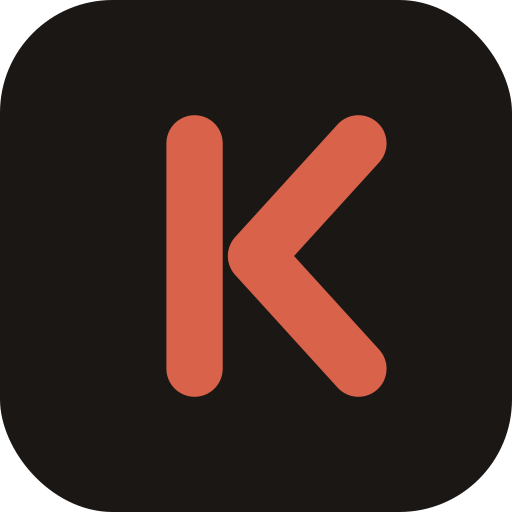
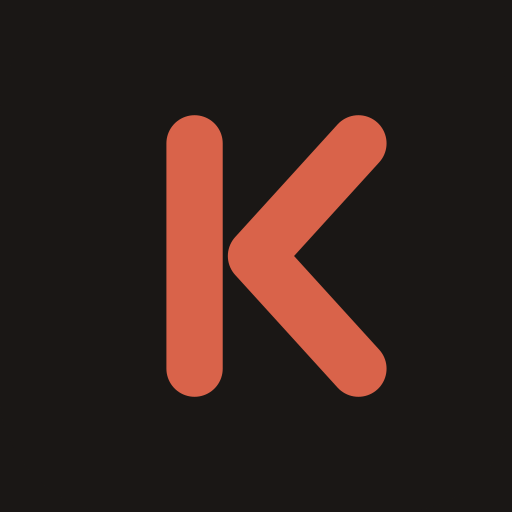
refactor: square corners across the site
Zero every radius token so stock shadcn classes render square, and
remove rounded classes and border-radius from components, prose styles
and the OG card. Make the app icons full-bleed squares. Document the
rule, the stacked heading layout and the theme reload gotcha in
AGENTS.md.

diff --git a/app/work/[slug]/page.tsx b/app/work/[slug]/page.tsx
@@ -105,8 +105,8 @@ export default async function ProjectPage({
                   rel="noopener noreferrer"
                   className={
                     k === 0
-                      ? "inline-flex items-center rounded-lg bg-foreground px-4 py-2.5 font-mono text-xs text-background transition-opacity hover:opacity-85"
-                      : "inline-flex items-center rounded-lg border border-border bg-secondary px-4 py-2.5 font-mono text-xs text-muted-foreground transition-colors hover:border-brand/40 hover:text-foreground"
+                      ? "inline-flex items-center bg-foreground px-4 py-2.5 font-mono text-xs text-background transition-opacity hover:opacity-85"
+                      : "inline-flex items-center border border-border bg-secondary px-4 py-2.5 font-mono text-xs text-muted-foreground transition-colors hover:border-brand/40 hover:text-foreground"
                   }
                 >
                   {l.label.toLowerCase()}
@@ -117,7 +117,7 @@ export default async function ProjectPage({
 
           <div className="lg:col-span-5">
             <div
-              className="relative flex aspect-square items-center justify-center rounded-2xl"
+              className="relative flex aspect-square items-center justify-center"
               style={{ backgroundColor: `var(--stock-${p.stock})` }}
             >
               <span
@@ -146,7 +146,7 @@ export default async function ProjectPage({
           </div>
         </div>
 
-        <dl className="relative mt-14 flex flex-wrap gap-px overflow-hidden rounded-xl border border-border bg-border">
+        <dl className="relative mt-14 flex flex-wrap gap-px overflow-hidden border border-border bg-border">
           {facts.map(([k, v]) => (
             <div
               key={k}
@@ -167,7 +167,7 @@ export default async function ProjectPage({
         </Block>
 
         <Block index={2} label="how it works">
-          <ol className="grid gap-px overflow-hidden rounded-xl border border-border bg-border md:grid-cols-2">
+          <ol className="grid gap-px overflow-hidden border border-border bg-border md:grid-cols-2">
             {p.approach.map((a, k) => (
               <li
                 key={a.title}
@@ -208,7 +208,7 @@ export default async function ProjectPage({
                 {p.stack.map((s) => (
                   <li
                     key={s}
-                    className="rounded-md border border-border px-2.5 py-1 font-mono text-xs text-muted-foreground"
+                    className="border border-border px-2.5 py-1 font-mono text-xs text-muted-foreground"
                   >
                     {s}
                   </li>
@@ -303,7 +303,7 @@ function PagerLink({
   return (
     <Link
       href={href}
-      className={`group relative rounded-xl border border-border p-6 transition-colors hover:border-brand/40 ${alignEnd ? "sm:text-right" : ""}`}
+      className={`group relative border border-border p-6 transition-colors hover:border-brand/40 ${alignEnd ? "sm:text-right" : ""}`}
     >
       <CropMarks />
       <span className="font-mono text-xs text-muted-foreground">

diff --git a/components/social-links.tsx b/components/social-links.tsx
@@ -8,14 +8,23 @@ import {
 } from "@hugeicons/core-free-icons"
 import { HugeiconsIcon } from "@hugeicons/react"
 
-import { Tooltip, TooltipContent, TooltipTrigger } from "@/components/ui/tooltip"
+import {
+  Tooltip,
+  TooltipContent,
+  TooltipTrigger,
+} from "@/components/ui/tooltip"
 import { socialLinks, type SocialLink } from "@/lib/site"
 import { cn } from "@/lib/utils"
 
 // dev.to has no Hugeicons glyph, so the mark is inlined.
 function DevToMark({ className }: { className?: string }) {
   return (
-    <svg viewBox="0 0 448 512" className={className} fill="currentColor" aria-hidden="true">
+    <svg
+      viewBox="0 0 448 512"
+      className={className}
+      fill="currentColor"
+      aria-hidden="true"
+    >
       <path d="M120.12 208.29c-3.88-2.9-7.77-4.35-11.65-4.35H91.03v104.47h17.45c3.88 0 7.77-1.45 11.65-4.35 3.88-2.9 5.82-7.25 5.82-13.06v-69.65c-.01-5.8-1.96-10.16-5.83-13.06zM404.1 32H43.9C19.7 32 .06 51.59 0 75.8v360.4C.06 460.41 19.7 480.01 43.9 480h360.2c24.21.01 43.84-19.59 43.9-43.8V75.8c-.06-24.21-19.7-43.81-43.9-43.8zM154.2 291.19c0 18.81-11.61 47.31-48.36 47.25h-46.4V172.98h47.38c35.44 0 47.36 28.46 47.37 47.28l.01 70.93zm100.68-88.66H201.6v38.42h32.57v29.57H201.6v38.41h53.29v29.57h-62.18c-11.16.29-20.44-8.53-20.72-19.69V193.7c-.27-11.15 8.56-20.41 19.71-20.69h63.19l-.01 29.52zm103.64 115.29c-13.2 30.75-36.85 24.63-47.44 0l-38.53-144.8h32.57l29.71 113.72 29.57-113.72h32.58l-38.46 144.8z" />
     </svg>
   )
@@ -30,9 +39,21 @@ const ICONS = {
   email: Mail01Icon,
 } as const
 
-function LinkIcon({ link, className }: { link: SocialLink; className?: string }) {
+function LinkIcon({
+  link,
+  className,
+}: {
+  link: SocialLink
+  className?: string
+}) {
   if (link.key === "devto") return <DevToMark className={className} />
-  return <HugeiconsIcon icon={ICONS[link.key]} className={className} strokeWidth={1.6} />
+  return (
+    <HugeiconsIcon
+      icon={ICONS[link.key]}
+      className={className}
+      strokeWidth={1.6}
+    />
+  )
 }
 
 export function SocialLinks({ className }: { className?: string }) {
@@ -49,7 +70,7 @@ export function SocialLinks({ className }: { className?: string }) {
                   aria-label={`${link.label}: ${link.handle}`}
                   target={isMail ? undefined : "_blank"}
                   rel={isMail ? undefined : "noopener noreferrer"}
-                  className="group inline-flex size-10 items-center justify-center rounded-lg text-muted-foreground transition-colors hover:bg-accent hover:text-foreground focus-visible:outline-none focus-visible:ring-3 focus-visible:ring-ring/50"
+                  className="group inline-flex size-10 items-center justify-center text-muted-foreground transition-colors hover:bg-accent hover:text-foreground focus-visible:ring-3 focus-visible:ring-ring/50 focus-visible:outline-none"
                 >
                   <LinkIcon
                     link={link}

diff --git a/components/ui/button.tsx b/components/ui/button.tsx
@@ -5,7 +5,7 @@ import { Slot } from "radix-ui"
 import { cn } from "@/lib/utils"
 
 const buttonVariants = cva(
-  "group/button inline-flex shrink-0 items-center justify-center rounded-lg border border-transparent bg-clip-padding text-sm font-medium whitespace-nowrap transition-all outline-none select-none focus-visible:border-ring focus-visible:ring-3 focus-visible:ring-ring/50 active:not-aria-[haspopup]:translate-y-px disabled:pointer-events-none disabled:opacity-50 aria-invalid:border-destructive aria-invalid:ring-3 aria-invalid:ring-destructive/20 dark:aria-invalid:border-destructive/50 dark:aria-invalid:ring-destructive/40 [&_svg]:pointer-events-none [&_svg]:shrink-0 [&_svg:not([class*='size-'])]:size-4",
+  "group/button inline-flex shrink-0 items-center justify-center border border-transparent bg-clip-padding text-sm font-medium whitespace-nowrap transition-all outline-none select-none focus-visible:border-ring focus-visible:ring-3 focus-visible:ring-ring/50 active:not-aria-[haspopup]:translate-y-px disabled:pointer-events-none disabled:opacity-50 aria-invalid:border-destructive aria-invalid:ring-3 aria-invalid:ring-destructive/20 dark:aria-invalid:border-destructive/50 dark:aria-invalid:ring-destructive/40 [&_svg]:pointer-events-none [&_svg]:shrink-0 [&_svg:not([class*='size-'])]:size-4",
   {
     variants: {
       variant: {
@@ -23,14 +23,12 @@ const buttonVariants = cva(
       size: {
         default:
           "h-8 gap-1.5 px-2.5 has-data-[icon=inline-end]:pr-2 has-data-[icon=inline-start]:pl-2",
-        xs: "h-6 gap-1 rounded-[min(var(--radius-md),10px)] px-2 text-xs in-data-[slot=button-group]:rounded-lg has-data-[icon=inline-end]:pr-1.5 has-data-[icon=inline-start]:pl-1.5 [&_svg:not([class*='size-'])]:size-3",
-        sm: "h-7 gap-1 rounded-[min(var(--radius-md),12px)] px-2.5 text-[0.8rem] in-data-[slot=button-group]:rounded-lg has-data-[icon=inline-end]:pr-1.5 has-data-[icon=inline-start]:pl-1.5 [&_svg:not([class*='size-'])]:size-3.5",
+        xs: "h-6 gap-1 px-2 text-xs has-data-[icon=inline-end]:pr-1.5 has-data-[icon=inline-start]:pl-1.5 [&_svg:not([class*='size-'])]:size-3",
+        sm: "h-7 gap-1 px-2.5 text-[0.8rem] has-data-[icon=inline-end]:pr-1.5 has-data-[icon=inline-start]:pl-1.5 [&_svg:not([class*='size-'])]:size-3.5",
         lg: "h-9 gap-1.5 px-2.5 has-data-[icon=inline-end]:pr-2 has-data-[icon=inline-start]:pl-2",
         icon: "size-8",
-        "icon-xs":
-          "size-6 rounded-[min(var(--radius-md),10px)] in-data-[slot=button-group]:rounded-lg [&_svg:not([class*='size-'])]:size-3",
-        "icon-sm":
-          "size-7 rounded-[min(var(--radius-md),12px)] in-data-[slot=button-group]:rounded-lg",
+        "icon-xs": "size-6 [&_svg:not([class*='size-'])]:size-3",
+        "icon-sm": "size-7",
         "icon-lg": "size-9",
       },
     },

diff --git a/components/ui/tooltip.tsx b/components/ui/tooltip.tsx
@@ -42,13 +42,13 @@ function TooltipContent({
         data-slot="tooltip-content"
         sideOffset={sideOffset}
         className={cn(
-          "z-50 inline-flex w-fit max-w-xs origin-(--radix-tooltip-content-transform-origin) items-center gap-1.5 rounded-md bg-brand px-3 py-1.5 text-xs text-white has-data-[slot=kbd]:pr-1.5 data-[side=bottom]:slide-in-from-top-2 data-[side=left]:slide-in-from-right-2 data-[side=right]:slide-in-from-left-2 data-[side=top]:slide-in-from-bottom-2 **:data-[slot=kbd]:relative **:data-[slot=kbd]:isolate **:data-[slot=kbd]:z-50 **:data-[slot=kbd]:rounded-sm data-[state=delayed-open]:animate-in data-[state=delayed-open]:fade-in-0 data-[state=delayed-open]:zoom-in-95 data-open:animate-in data-open:fade-in-0 data-open:zoom-in-95 data-closed:animate-out data-closed:fade-out-0 data-closed:zoom-out-95",
+          "z-50 inline-flex w-fit max-w-xs origin-(--radix-tooltip-content-transform-origin) items-center gap-1.5 bg-brand px-3 py-1.5 text-xs text-white has-data-[slot=kbd]:pr-1.5 data-[side=bottom]:slide-in-from-top-2 data-[side=left]:slide-in-from-right-2 data-[side=right]:slide-in-from-left-2 data-[side=top]:slide-in-from-bottom-2 **:data-[slot=kbd]:relative **:data-[slot=kbd]:isolate **:data-[slot=kbd]:z-50 data-[state=delayed-open]:animate-in data-[state=delayed-open]:fade-in-0 data-[state=delayed-open]:zoom-in-95 data-open:animate-in data-open:fade-in-0 data-open:zoom-in-95 data-closed:animate-out data-closed:fade-out-0 data-closed:zoom-out-95",
           className
         )}
         {...props}
       >
         {children}
-        <TooltipPrimitive.Arrow className="z-50 size-2.5 translate-y-[calc(-50%-2px)] rotate-45 rounded-xs bg-brand fill-brand" />
+        <TooltipPrimitive.Arrow className="z-50 size-2.5 translate-y-[calc(-50%-2px)] rotate-45 bg-brand fill-brand" />
       </TooltipPrimitive.Content>
     </TooltipPrimitive.Portal>
   )

diff --git a/components/site-header.tsx b/components/site-header.tsx
@@ -57,7 +57,7 @@ export function SiteHeader() {
         <Link
           href="/"
           aria-label={`${siteConfig.name}, home`}
-          className="-ml-1 inline-flex items-center rounded-md p-1 focus-visible:ring-3 focus-visible:ring-ring/50 focus-visible:outline-none"
+          className="-ml-1 inline-flex items-center p-1 focus-visible:ring-3 focus-visible:ring-ring/50 focus-visible:outline-none"
         >
           <FlipLogo size={36} color="var(--brand)" mode="auto" />
         </Link>
@@ -72,7 +72,7 @@ export function SiteHeader() {
                     href={item.href}
                     aria-current={active ? "page" : undefined}
                     className={cn(
-                      "group inline-flex items-center gap-1.5 rounded-md px-2.5 py-2 transition-colors focus-visible:ring-3 focus-visible:ring-ring/50 focus-visible:outline-none",
+                      "group inline-flex items-center gap-1.5 px-2.5 py-2 transition-colors focus-visible:ring-3 focus-visible:ring-ring/50 focus-visible:outline-none",
                       active
                         ? "text-foreground"
                         : "text-muted-foreground hover:text-foreground"
@@ -100,7 +100,7 @@ export function SiteHeader() {
           onClick={() => setOpen(!open)}
           aria-expanded={open}
           aria-controls="mobile-nav"
-          className="rounded-md px-2 py-2 font-mono text-xs text-muted-foreground transition-colors hover:text-foreground focus-visible:ring-3 focus-visible:ring-ring/50 focus-visible:outline-none md:hidden"
+          className="px-2 py-2 font-mono text-xs text-muted-foreground transition-colors hover:text-foreground focus-visible:ring-3 focus-visible:ring-ring/50 focus-visible:outline-none md:hidden"
         >
           {open ? "close" : "menu"}
         </button>

diff --git a/app/globals.css b/app/globals.css
@@ -46,13 +46,18 @@
     --color-card: var(--card);
     --color-foreground: var(--foreground);
     --color-background: var(--background);
-    --radius-sm: calc(var(--radius) * 0.6);
-    --radius-md: calc(var(--radius) * 0.8);
-    --radius-lg: var(--radius);
-    --radius-xl: calc(var(--radius) * 1.4);
-    --radius-2xl: calc(var(--radius) * 1.8);
-    --radius-3xl: calc(var(--radius) * 2.2);
-    --radius-4xl: calc(var(--radius) * 2.6);
+    /* Square corners everywhere: the site is a print run, and paper is cut
+       straight. Every radius token resolves to 0, so stock shadcn classes
+       (rounded-lg, rounded-md...) also render square. */
+    --radius: 0;
+    --radius-xs: 0;
+    --radius-sm: 0;
+    --radius-md: 0;
+    --radius-lg: 0;
+    --radius-xl: 0;
+    --radius-2xl: 0;
+    --radius-3xl: 0;
+    --radius-4xl: 0;
 }
 
 /* Warm "bone on near-black" identity palette — dark only.
@@ -76,7 +81,7 @@
     --border: oklch(0.8500 0.0300 70 / 12%);
     --input: oklch(0.8500 0.0300 70 / 15%);
     --ring: oklch(0.6398 0.1539 33.47);
-    --radius: 0.45rem;
+    --radius: 0;
 
     --brand: oklch(0.6398 0.1539 33.47);
     --brand-foreground: oklch(0.2074 0.0062 56.02);
@@ -209,7 +214,6 @@
     font-size: 0.85em;
     color: var(--foreground);
     background: var(--secondary);
-    border-radius: 4px;
     padding: 0.15em 0.35em;
   }
   .prose-print pre {
@@ -219,7 +223,6 @@
     color: var(--foreground);
     background: var(--card);
     border: 1px solid var(--border);
-    border-radius: 12px;
     padding: 1.1em 1.25em;
     overflow-x: auto;
   }
@@ -241,7 +244,6 @@
     color: var(--brand);
   }
   .prose-print img {
-    border-radius: 12px;
     border: 1px solid var(--border);
     max-width: 100%;
     height: auto;

diff --git a/components/home/hero.tsx b/components/home/hero.tsx
@@ -45,7 +45,7 @@ export function Hero() {
               href={siteConfig.bookingUrl}
               target="_blank"
               rel="noopener noreferrer"
-              className="group inline-flex items-center gap-2 rounded-lg border border-border bg-secondary px-4 py-2.5 font-mono text-xs tracking-wide text-muted-foreground transition-colors hover:border-brand/40 hover:bg-accent hover:text-foreground focus-visible:ring-3 focus-visible:ring-ring/50 focus-visible:outline-none"
+              className="group inline-flex items-center gap-2 border border-border bg-secondary px-4 py-2.5 font-mono text-xs tracking-wide text-muted-foreground transition-colors hover:border-brand/40 hover:bg-accent hover:text-foreground focus-visible:ring-3 focus-visible:ring-ring/50 focus-visible:outline-none"
             >
               <HugeiconsIcon
                 icon={CalendarCheckIcon}

diff --git a/app/not-found.tsx b/app/not-found.tsx
@@ -35,13 +35,13 @@ export default function NotFound() {
       <div className="mt-8 flex flex-wrap gap-3 font-mono text-xs">
         <Link
           href="/"
-          className="rounded-lg bg-foreground px-4 py-2.5 text-background transition-opacity hover:opacity-85"
+          className="bg-foreground px-4 py-2.5 text-background transition-opacity hover:opacity-85"
         >
           back home
         </Link>
         <Link
           href="/work"
-          className="rounded-lg border border-border bg-secondary px-4 py-2.5 text-muted-foreground transition-colors hover:text-foreground"
+          className="border border-border bg-secondary px-4 py-2.5 text-muted-foreground transition-colors hover:text-foreground"
         >
           see the work
         </Link>

diff --git a/components/work/project-card.tsx b/components/work/project-card.tsx
@@ -24,7 +24,7 @@ export function ProjectCard({
       href={`/work/${project.slug}`}
       aria-label={`${project.name}: ${project.tagline}`}
       className={cn(
-        "group relative flex aspect-[5/7] flex-col overflow-hidden rounded-2xl p-4 transition-transform duration-300 ease-out hover:-translate-y-1.5 focus-visible:-translate-y-1.5 focus-visible:ring-3 focus-visible:ring-ring/60 focus-visible:outline-none sm:p-5",
+        "group relative flex aspect-[5/7] flex-col overflow-hidden p-4 transition-transform duration-300 ease-out hover:-translate-y-1.5 focus-visible:-translate-y-1.5 focus-visible:ring-3 focus-visible:ring-ring/60 focus-visible:outline-none sm:p-5",
         className
       )}
       style={{

diff --git a/components/home/contact-sheet.tsx b/components/home/contact-sheet.tsx
@@ -27,7 +27,7 @@ export function ContactSheet({ index = 4 }: { index?: number }) {
             href={siteConfig.bookingUrl}
             target="_blank"
             rel="noopener noreferrer"
-            className="inline-flex w-fit items-center gap-2 rounded-lg border border-border bg-secondary px-4 py-2.5 text-muted-foreground transition-colors hover:border-brand/40 hover:bg-accent hover:text-foreground"
+            className="inline-flex w-fit items-center gap-2 border border-border bg-secondary px-4 py-2.5 text-muted-foreground transition-colors hover:border-brand/40 hover:bg-accent hover:text-foreground"
           >
             book a call
           </a>

diff --git a/app/contact/page.tsx b/app/contact/page.tsx
@@ -42,7 +42,7 @@ export default function ContactPage() {
               href={siteConfig.bookingUrl}
               target="_blank"
               rel="noopener noreferrer"
-              className="inline-flex items-center rounded-lg bg-foreground px-4 py-2.5 font-mono text-xs text-background transition-opacity hover:opacity-85"
+              className="inline-flex items-center bg-foreground px-4 py-2.5 font-mono text-xs text-background transition-opacity hover:opacity-85"
             >
               book a call
             </a>

diff --git a/app/about/page.tsx b/app/about/page.tsx
@@ -146,7 +146,7 @@ export default function AboutPage() {
           <h2 id="principles" className="sr-only">
             Principles
           </h2>
-          <ol className="mt-10 grid gap-px overflow-hidden rounded-xl border border-border bg-border md:grid-cols-2">
+          <ol className="mt-10 grid gap-px overflow-hidden border border-border bg-border md:grid-cols-2">
             {principles.map((p, i) => (
               <li
                 key={p.title}
